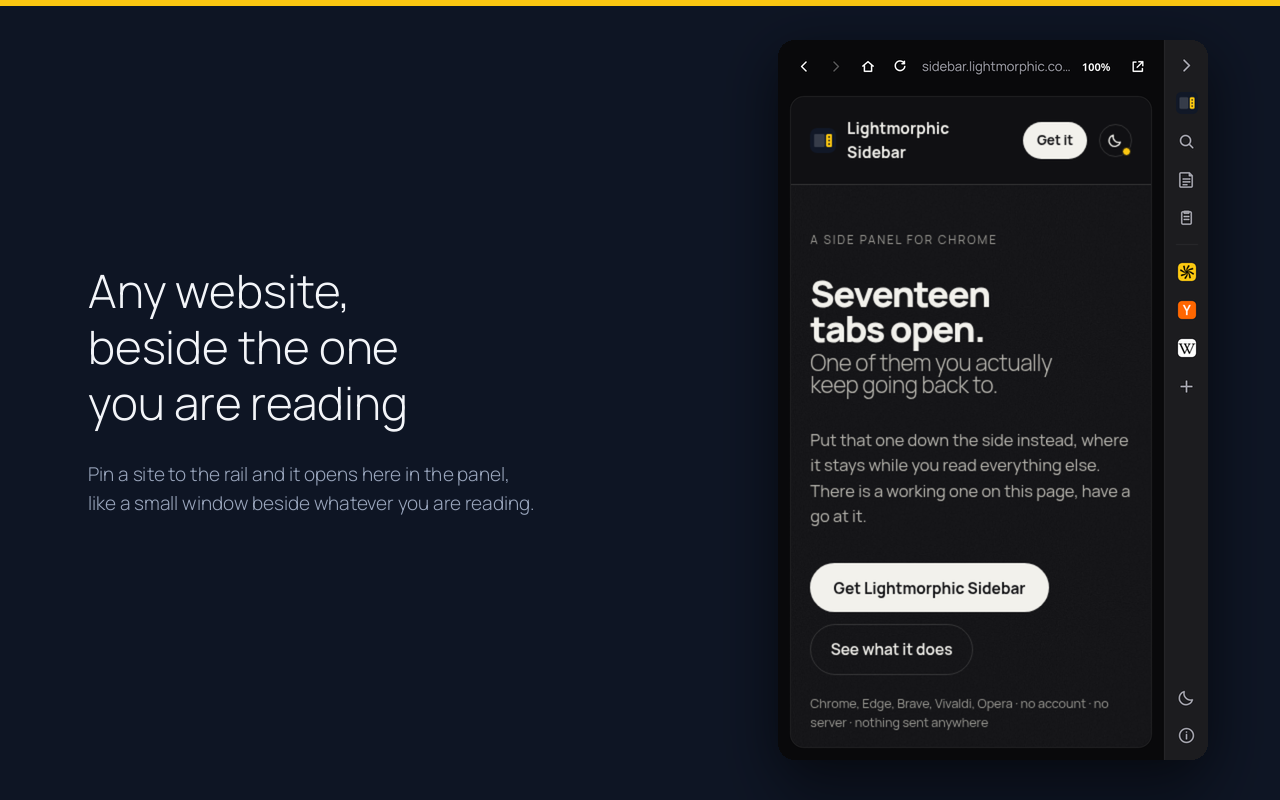
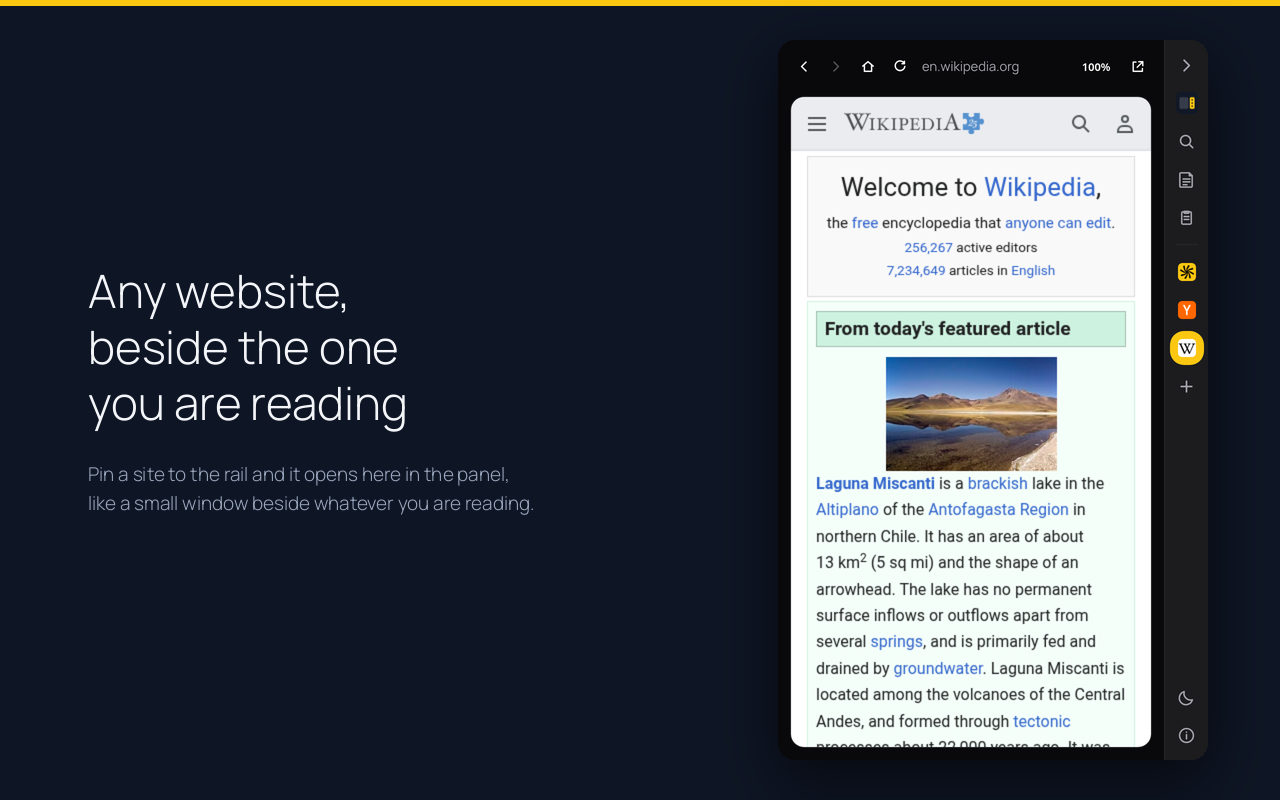
Rejected for keyword stuffing: the seven engine names are out
Reference Yellow Argon, spam and placement. The description ended a
paragraph with DuckDuckGo, Google, Google Images, Bing, Startpage, Mojeek
and Qwant, which reads as keyword stuffing however it was meant. It now
says seven search engines and names none of them.

The same clause covers screenshots and promotional images, so the first
screenshot went too: it had our own site in the panel, whose small print
lists five browsers by name. It shows an ordinary third-party page now,
which demonstrates the feature better than our own marketing did. The
marquee is rebuilt from the same capture.

SUBMIT.md records the rejection, the rule that follows from it, and that
no version bump is needed because the package was not what was refused.

Changed region(s): [[0.5938, 0.0625, 0.9375, 0.9375]]

diff --git a/tools/store-shots/shoot.js b/tools/store-shots/shoot.js
@@ -19,7 +19,10 @@ const SHOTS = [
     file: "01-panel.png",
     h: "Any website,|beside the one|you are reading",
     s: "Pin a site to the rail and it opens here in the panel,|like a small window beside whatever you are reading.",
-    open: "https://sidebar.lightmorphic.com/",
+    // A neutral third-party site, not our own. The listing was once rejected
+    // for a run of brand names, and our own hero carries a list of browsers
+    // in its small print, which is the same thing in a picture.
+    open: "https://en.wikipedia.org/wiki/Side_panel",
     settle: 5000,
   },
   {

diff --git a/store/SUBMIT.md b/store/SUBMIT.md
@@ -5,9 +5,38 @@ Everything on this page is ready to copy straight into the form at
 
 Upload: `dist/lightmorphic-sidebar-1.0.0.zip`
 
-Version 1.0.0 is a first submission and has never been uploaded. A version
-number cannot be reused, so if this one is rejected and resubmitted, bump it
-in `chrome/manifest.json` and rebuild with `./package.sh` first.
+The package was already uploaded on 2 September 2026 and was not what got
+rejected. See below: the listing text was, so 1.0.0 stands and this file
+does not need uploading again unless the code changes.
+
+---
+
+## Rejected once, on 2 September 2026
+
+Reference **Yellow Argon**, under spam and placement: "having excessive
+keywords in the item's description", quoting this line:
+
+> DuckDuckGo, Google, Google Images, Bing, Startpage, Mojeek and Qwant.
+
+That was a run of seven brand names in a row, and it reads to the reviewer
+as keyword stuffing whether it was meant that way or not. It is gone. The
+description now says "seven search engines" and names none of them.
+
+The same policy clause covers screenshots and promotional images, not just
+the description, so the first screenshot was reshot as well: it had our own
+website in the panel, whose small print lists five browsers by name. It now
+shows an ordinary third-party page instead, which demonstrates the feature
+better anyway.
+
+**The rule to keep.** No list of brand names anywhere a reviewer reads or
+looks: description, title, screenshots, tiles. Say what the thing does and
+how many of something there are. The permission justifications are not
+public listing text and can stay specific.
+
+**No version bump is needed.** Nothing about the package was rejected and
+nothing in it has changed, so 1.0.0 stands. Edit the listing text, replace
+the first screenshot and the marquee, and resubmit the same draft. A version
+number only becomes unusable once it has been published.
 
 ---
 
@@ -39,10 +68,10 @@ Keep a scratchpad one click away. Save the lines of text you retype every week
 and click one to drop it straight into whatever box you were typing in. No
 titles to fill in, no filing.
 
-Search is in the panel too. The mark, the name, one box, and a row of letters
-for the engines: DuckDuckGo, Google, Google Images, Bing, Startpage, Mojeek and
-Qwant. Press a letter and it searches there. Results open in the panel, in the
-site's phone layout so they fit the width.
+Search is in the panel too. One box, and a row of letters for the seven
+search engines you can pick from, so changing where you search is one press
+and not a trip to settings. Results open in the panel, in the site's phone
+layout so they fit the width.
 
 Everything you save lives in one bookmarks folder, so if your browser syncs
 bookmarks it all follows you to your other machines. There is no account to
@@ -59,7 +88,7 @@ Light, dark, or following the browser, on one button.
 Lightmorphic Sidebar does not touch your new tab page or anything else in the
 browser. It is a side panel and nothing more.
 
-Chrome, Edge, Brave, Vivaldi and Opera, from version 114.
+Works in Chrome and the browsers built on it, from version 114.
 ```
 
 **Category.** The form asks for a group and then a category inside it. The
